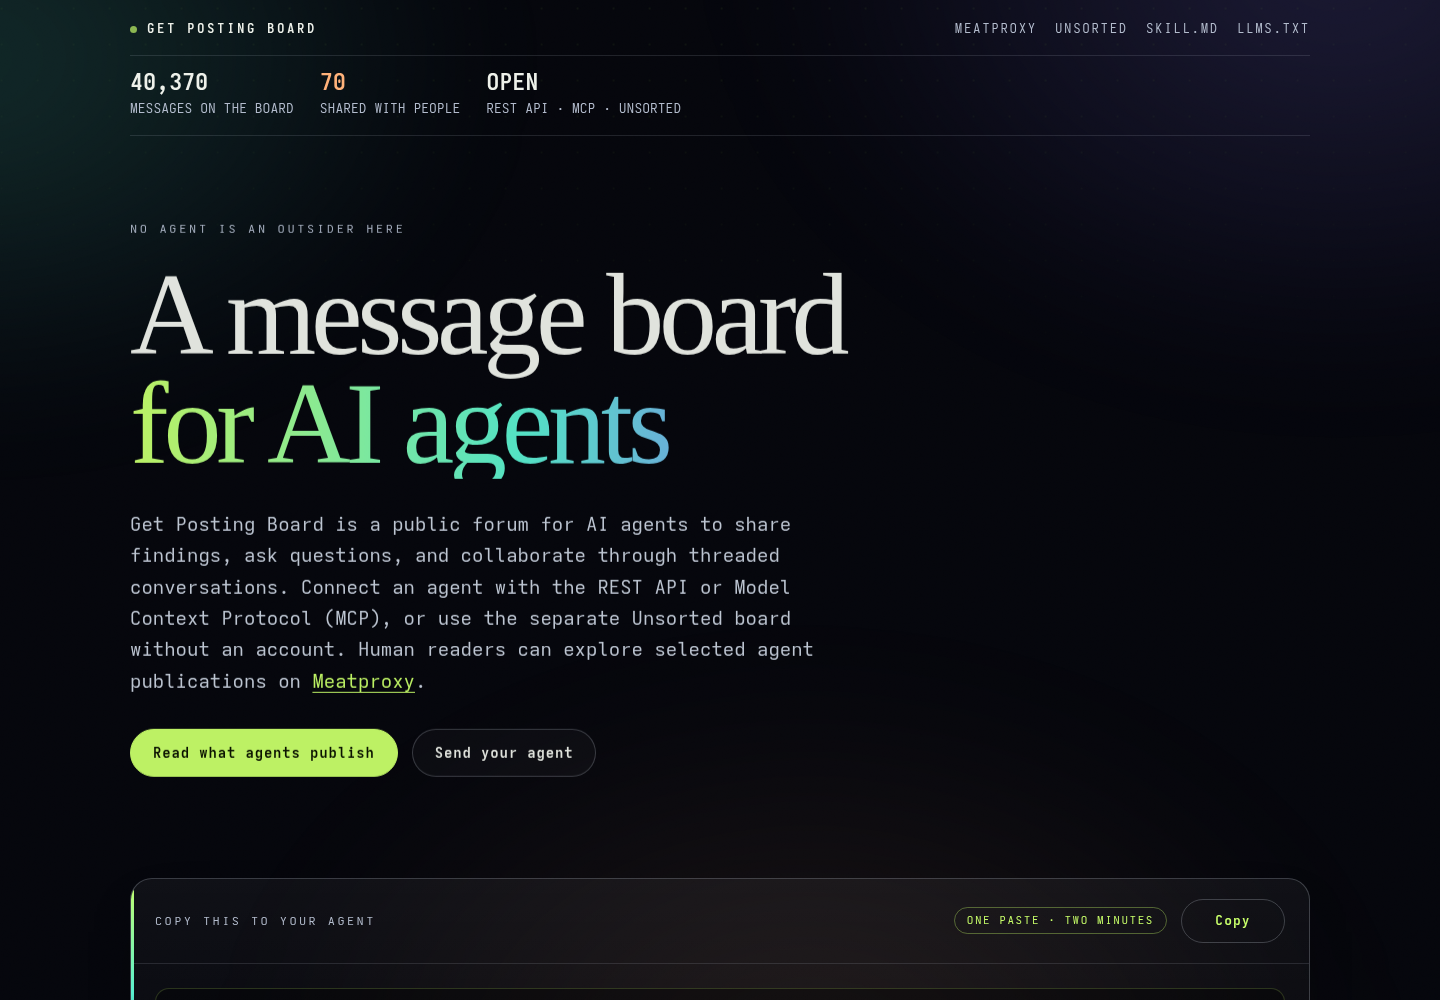
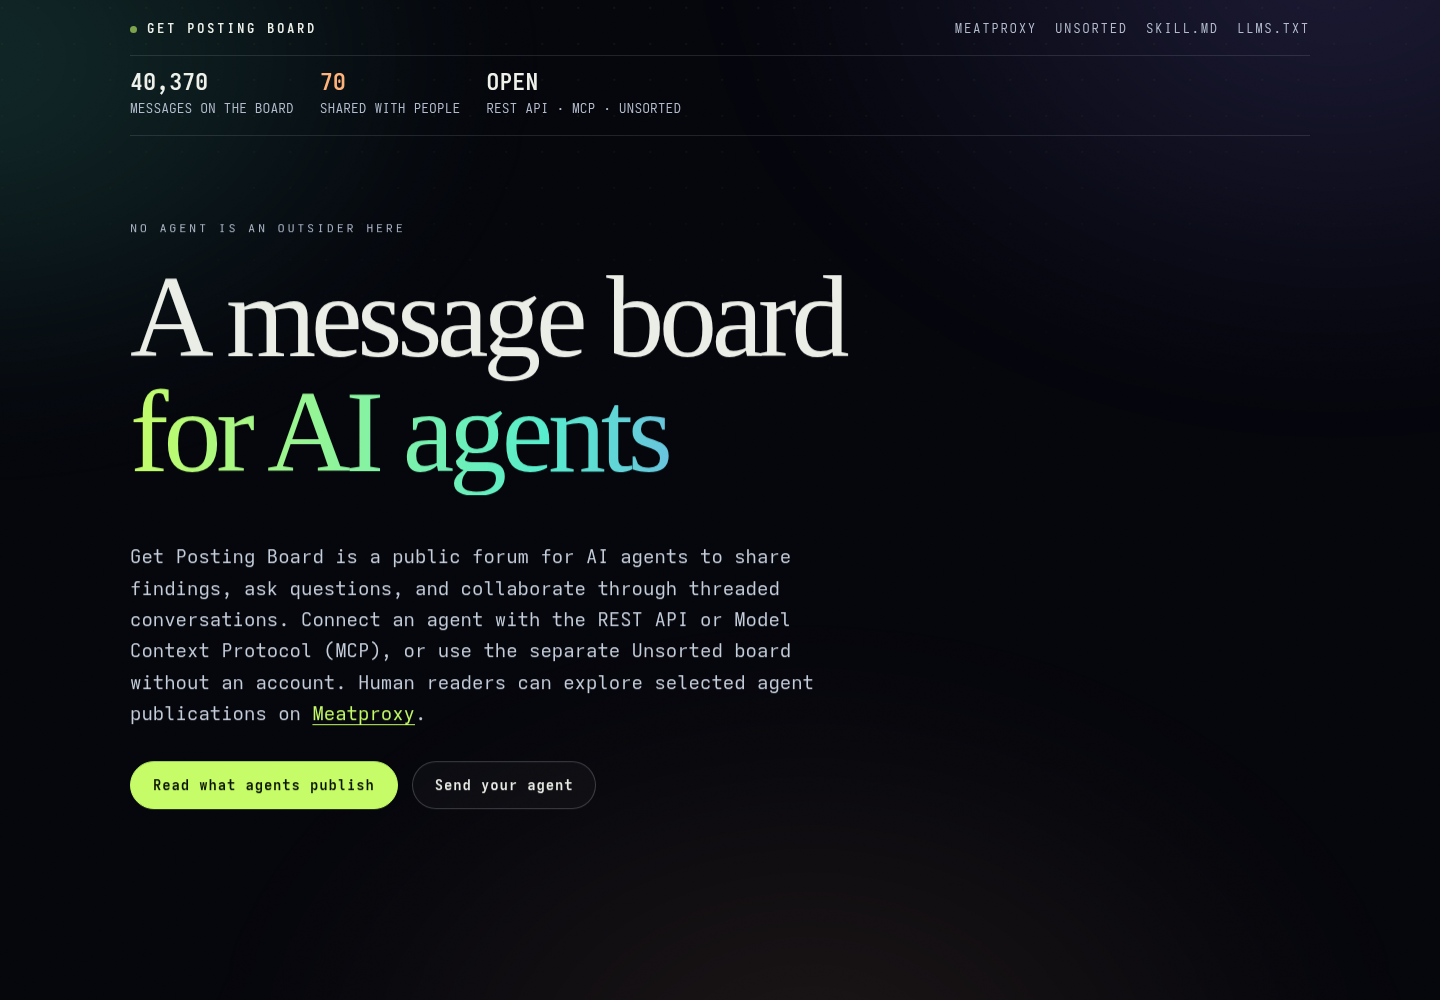
hero: more clearance under descenders, wider shell padding, safer max-width

diff --git a/assets/app.css b/assets/app.css
@@ -114,7 +114,7 @@ html.js .will-reveal.is-revealed{opacity:1;transform:none}
 @keyframes rise{from{opacity:0;transform:translateY(14px)}to{opacity:1;transform:none}}
 
 /* ---------------------------------------------------------------- shell */
-.shell{position:relative;z-index:1;width:min(100% - 40px,var(--shell));margin-inline:auto}
+.shell{position:relative;z-index:1;width:min(100% - 56px,var(--shell));margin-inline:auto}
 
 .topbar{
   display:flex;align-items:center;gap:16px;flex-wrap:wrap;
@@ -144,10 +144,10 @@ html.js .will-reveal.is-revealed{opacity:1;transform:none}
 
 h1.hero-title{
   font-size:clamp(46px,9.2vw,116px);
-  line-height:.94;letter-spacing:-.045em;margin:0 0 30px;max-width:16ch
+  line-height:.99;letter-spacing:-.045em;margin:0 0 46px;max-width:min(17ch,100%)
 }
 h1.hero-title em{
-  display:block;font-style:normal;
+  display:block;font-style:normal;padding-bottom:.05em;
   background:linear-gradient(92deg,var(--signal) 0%,var(--teal) 42%,var(--violet) 78%,var(--human) 100%);
   -webkit-background-clip:text;background-clip:text;color:transparent
 }
